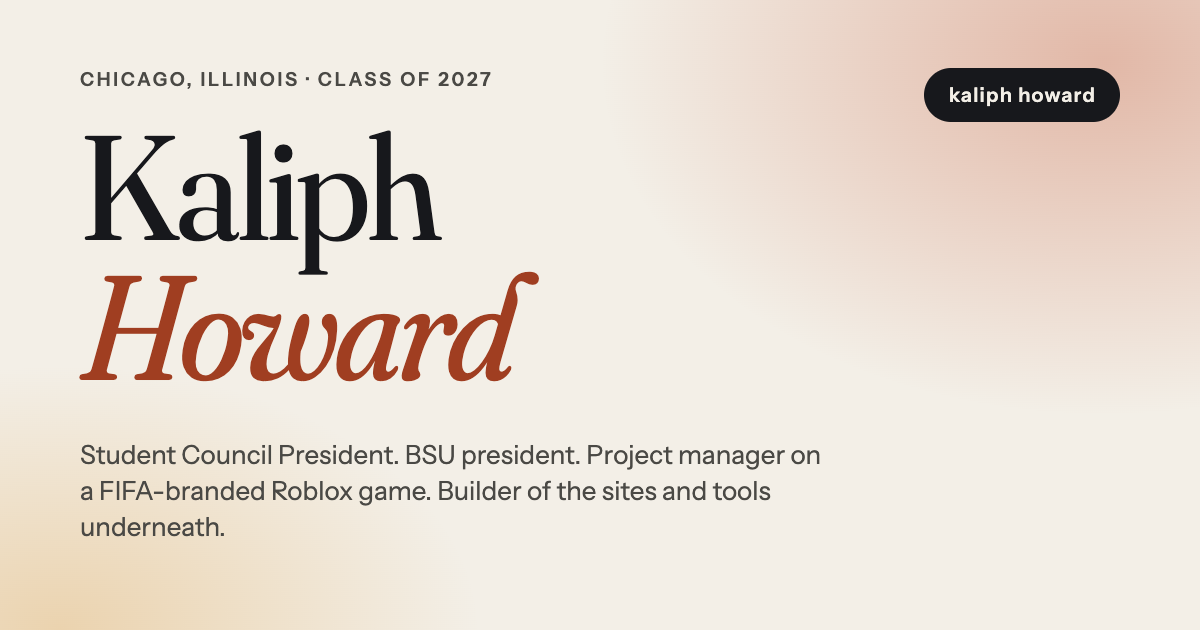
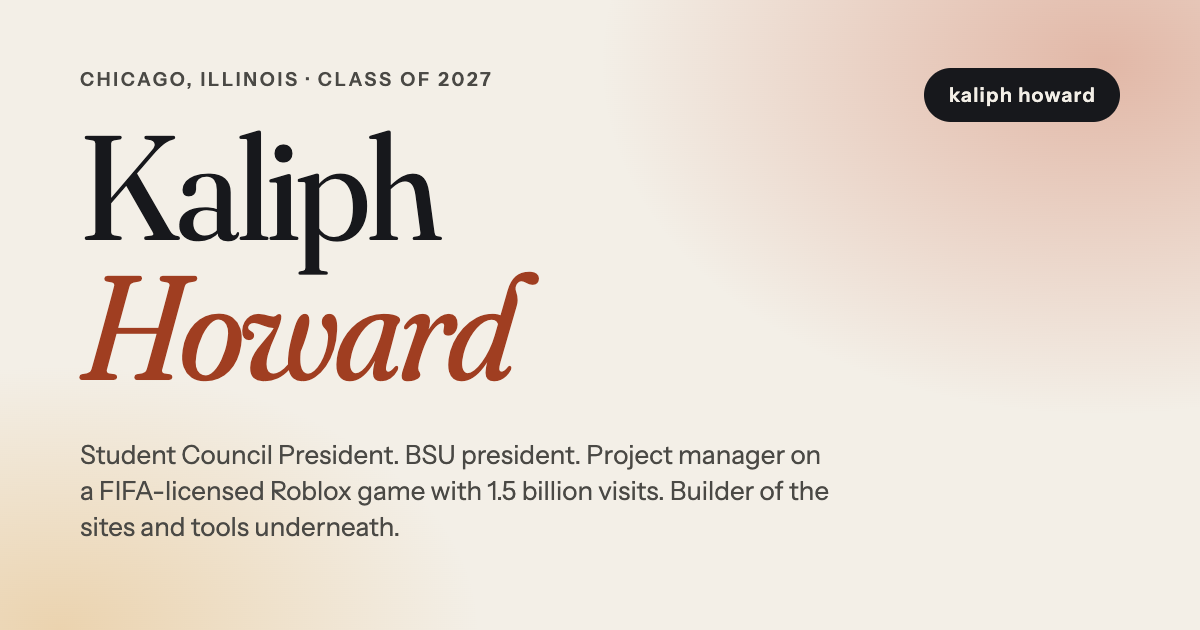
Add verified Playverse evidence, Juneteenth and BSU details
- Playverse: Roblox API figures (1.5B+ visits, 1.9M-member verified group,
  1M+ favourites), launch date, FIFA licensing and rename, twelve Club
  World Cup clubs; Roblox page and studio site screenshots; the X account
  Kaliph grew to 130K followers
- Juneteenth Lake County: organiser, parade and festival details from the
  official site; Kaliph's role as volunteer manager since 2020
- BSU: kickoffs and meetings in rented venues; state representatives and
  senators speaking to students
- FIFA-branded -> FIFA-licensed throughout; OG image regenerated

Changed region(s): [[0.0617, 0.754, 0.7092, 0.8746]]

diff --git a/work.html b/work.html
@@ -8,7 +8,7 @@
   <meta name="theme-color" content="#f3efe7">
   <meta property="og:type" content="website">
   <meta property="og:title" content="Work — Kaliph Howard">
-  <meta property="og:description" content="Student government, a FIFA-branded game, a Black Student Union, a Juneteenth celebration, a brand, and the software under it.">
+  <meta property="og:description" content="Student government, a FIFA-licensed game, a Black Student Union, a Juneteenth celebration, a brand, and the software under it.">
   <meta property="og:image" content="./assets/og.png">
   <meta name="twitter:card" content="summary_large_image">
   <link rel="icon" href="./assets/favicon.svg" type="image/svg+xml">
@@ -77,14 +77,15 @@
         <li class="project project--lead" id="playverse" data-facet="business" data-facets="business leadership community" style="--c:var(--business);--c-ink:var(--business-ink)">
           <button class="project__row" aria-expanded="false" aria-controls="body-playverse">
             <span class="project__num">02</span>
-            <span class="project__title">Playverse / Super League Soccer<small>Project manager on a FIFA-branded Roblox football game with more than 100,000 players and a group of over four million members.</small></span>
+            <span class="project__title">Playverse / Super League Soccer<small>Project manager on FIFA Super Soccer, formerly Super League Soccer: a FIFA-licensed Roblox game with more than 1.5 billion visits.</small></span>
             <span class="project__kind">Business · Leadership</span>
             <span class="project__toggle" aria-hidden="true">+</span>
           </button>
           <div class="project__body" id="body-playverse" hidden>
-            <div class="plate" style="--c:var(--business);--c-ink:var(--business-ink)"><span class="plate__cap">Super League Soccer · Roblox</span><i class="plate--pitch" aria-hidden="true"></i><span class="plate__sub">100,000+ players</span></div>
-            <div><h3>What it is</h3><p>Super League Soccer is a football game on Roblox built by Playverse and carrying FIFA branding. Behind the game is a studio: developers, artists, moderators, social channels and partners.</p></div>
-            <div><h3>My part</h3><p>Project manager, about twelve hours a week. I run the priorities and the calendar, own the brand and social channels, and handle partnerships, including the licensed branding.</p><h3 style="margin-top:1rem">What I took from it</h3><p>A game with six figures of players is a business with a schedule. I learned to run one, and to be accountable to a brand that is not mine.</p></div><p class="project__foot"><a class="glass cta" href="./work/playverse.html">Read the case study <svg viewBox="0 0 16 16" aria-hidden="true"><path d="M3 8h9M8.5 3.5 13 8l-4.5 4.5" fill="none" stroke="currentColor" stroke-width="1.6" stroke-linecap="round" stroke-linejoin="round"/></svg></a><span>Screenshots to be added</span></p>
+            <div class="plate plate--img" style="--c:var(--business);--c-ink:var(--business-ink)"><img src="./assets/work/fifa-super-soccer-roblox.jpg" width="1440" height="900" alt="" loading="lazy"><span class="plate__cap">FIFA Super Soccer · Roblox</span><span class="plate__sub">1.5 billion visits</span></div>
+            <div><h3>What it is</h3><p>Super League Soccer launched on Roblox in January 2023, built by Playverse. It became the most successful sports launch in Roblox history and, after an official licensing partnership with FIFA, was renamed FIFA Super Soccer. As of September 2026 it has more than 1.5 billion visits, over a million favourites, and a verified group of 1.9 million members. For the FIFA Club World Cup 2025 the studio brought twelve licensed clubs into the game.</p></div>
+            <div><h3>My part</h3><p>Project manager, about twelve hours a week. I run the priorities and the calendar, own the brand and social channels, and handle partnerships, including the licensed branding. I grew the studio’s X account, @PlayverseStudio, to 130,000 followers.</p><h3 style="margin-top:1rem">What I took from it</h3><p>A game with a billion visits is a business with a schedule. I learned to run one, and to be accountable to a brand that is not mine.</p></div>
+            <p class="project__foot"><a class="glass cta" href="./work/playverse.html">Read the case study <svg viewBox="0 0 16 16" aria-hidden="true"><path d="M3 8h9M8.5 3.5 13 8l-4.5 4.5" fill="none" stroke="currentColor" stroke-width="1.6" stroke-linecap="round" stroke-linejoin="round"/></svg></a><a href="https://www.roblox.com/games/12177325772/FIFA-Super-Soccer" rel="noopener">The game on Roblox</a></p>
           </div>
         </li>
 
@@ -97,7 +98,7 @@
           </button>
           <div class="project__body" id="body-bsu" hidden>
             <div class="plate" style="--c:var(--community);--c-ink:var(--community-ink)"><span class="plate__cap">Lake County, Illinois</span><span class="plate__word">BSU</span><span class="plate__sub">60+ events</span></div>
-            <div><h3>What it is</h3><p>An independent Black Student Union, organised outside any single school so that students from four districts across Lake County can take part. <span class="tbd" title="Placeholder: Kaliph to describe the BSU">What the events are, meetings, speakers, service and celebrations, and how the union is organised will be described here.</span></p></div>
+            <div><h3>What it is</h3><p>An independent Black Student Union, organised outside any single school so that students from four districts across Lake County can take part. We run kickoffs and large meetings in rented spaces, bowling alleys and restaurants, so students from different schools actually meet, and we bring in state representatives and senators to speak to students about how the state works and what is open to them.</p></div>
             <div><h3>My part</h3><p>President, grades 10 to 12. More than sixty events planned and run.</p><h3 style="margin-top:1rem">What I took from it</h3><p>Sixty events is sixty rooms to fill. I learned that people come back when they were welcomed the first time, and that the second event is the one that decides whether there is a third.</p></div><p class="project__foot"><span>Photographs to be added</span></p>
           </div>
         </li>
@@ -105,14 +106,14 @@
         <li class="project" id="juneteenth" data-facet="community" data-facets="community leadership" style="--c:var(--community);--c-ink:var(--community-ink)">
           <button class="project__row" aria-expanded="false" aria-controls="body-juneteenth">
             <span class="project__num">04</span>
-            <span class="project__title">Lake County Juneteenth</span>
+            <span class="project__title">Juneteenth Lake County</span>
             <span class="project__kind">Community · Leadership</span>
             <span class="project__toggle" aria-hidden="true">+</span>
           </button>
           <div class="project__body" id="body-juneteenth" hidden>
             <div class="plate" style="--c:var(--community);--c-ink:var(--community-ink)"><span class="plate__cap">Lake County, Illinois</span><i class="plate--sun" aria-hidden="true"></i><span class="plate__word">June<br>19</span><span class="plate__sub">Community celebration</span></div>
-            <div><h3>What it is</h3><p>A community Juneteenth celebration in Lake County, organised with local partners. <span class="tbd" title="Placeholder: Kaliph to describe the event">Details of the event, the partners involved and what a day looks like will be added here.</span></p></div>
-            <div><h3>My part</h3><p><span class="tbd" title="Placeholder">Event coordination. A specific description of what I was responsible for will be added here.</span></p></div><p class="project__foot"><span>Case study coming</span></p>
+            <div><h3>What it is</h3><p>Juneteenth Lake County is a parade and festival run by the Greater Waukegan Development Coalition: the parade starts at Waukegan High School and the festival fills Foss Park in North Chicago with music, food, artisans and Black-owned businesses over a weekend.</p></div>
+            <div><h3>My part</h3><p>Volunteer manager since 2020. I coordinate the volunteers on the ground and help vendors get set up and running on festival days.</p></div><p class="project__foot"><a href="https://juneteenthlakecounty.com" rel="noopener">juneteenthlakecounty.com</a><span>Photographs to be added</span></p>
           </div>
         </li>
 
@@ -177,7 +178,7 @@
       <aside class="index__preview enter" style="--i:5" aria-hidden="true">
         <div class="plate-stack">
           <div data-for="student-council" class="plate is-active plate--img" style="--c:var(--leadership);--c-ink:var(--leadership-ink)"><img src="./assets/work/wths-home.jpg" width="1440" height="900" alt="" loading="lazy"><span class="plate__cap">wths2027.com</span><span class="plate__sub">Student Council · Class site</span></div>
-          <div data-for="playverse" class="plate" style="--c:var(--business);--c-ink:var(--business-ink)"><span class="plate__cap">Super League Soccer · Roblox</span><i class="plate--pitch" aria-hidden="true"></i><span class="plate__sub">100,000+ players</span></div>
+          <div data-for="playverse" class="plate plate--img" style="--c:var(--business);--c-ink:var(--business-ink)"><img src="./assets/work/fifa-super-soccer-roblox.jpg" width="1440" height="900" alt="" loading="lazy"><span class="plate__cap">FIFA Super Soccer · Roblox</span><span class="plate__sub">1.5 billion visits</span></div>
           <div data-for="bsu" class="plate" style="--c:var(--community);--c-ink:var(--community-ink)"><span class="plate__cap">Lake County, Illinois</span><span class="plate__word">BSU</span><span class="plate__sub">60+ events</span></div>
           <div data-for="juneteenth" class="plate" style="--c:var(--community);--c-ink:var(--community-ink)"><span class="plate__cap">Lake County, Illinois</span><i class="plate--sun" aria-hidden="true"></i><span class="plate__word">June<br>19</span><span class="plate__sub">Community celebration</span></div>
           <div data-for="avnt" class="plate plate--logo" style="--c:var(--business);--c-ink:var(--business-ink)"><span class="plate__cap">Identity, operations, tools</span><img src="./assets/work/avnt-wordmark.svg" width="1200" height="300" alt="" loading="lazy"><span class="plate__sub">Brand</span></div>

diff --git a/work/playverse.html b/work/playverse.html
@@ -3,12 +3,12 @@
 <head>
   <meta charset="utf-8">
   <meta name="viewport" content="width=device-width, initial-scale=1, viewport-fit=cover">
-  <title>Playverse / Super League Soccer — Kaliph Howard</title>
-  <meta name="description" content="Project manager on Super League Soccer, a FIFA-branded football game on Roblox with over 100,000 players and a group of more than four million members.">
+  <title>Playverse / FIFA Super Soccer — Kaliph Howard</title>
+  <meta name="description" content="Project manager on FIFA Super Soccer (formerly Super League Soccer), a FIFA-licensed Roblox game by Playverse with more than 1.5 billion visits.">
   <meta name="theme-color" content="#f3efe7">
   <meta property="og:type" content="article">
   <meta property="og:title" content="Playverse / Super League Soccer — Kaliph Howard">
-  <meta property="og:description" content="Project manager on Super League Soccer, a FIFA-branded football game on Roblox with over 100,000 players and a group of more than four million members.">
+  <meta property="og:description" content="Project manager on FIFA Super Soccer (formerly Super League Soccer), a FIFA-licensed Roblox game by Playverse with more than 1.5 billion visits.">
   <meta property="og:image" content="../assets/og.png">
   <meta name="twitter:card" content="summary_large_image">
   <link rel="icon" href="../assets/favicon.svg" type="image/svg+xml">
@@ -38,21 +38,22 @@
   <main id="main" class="page case">
     <header class="case__head">
       <p class="eyebrow eyebrow--accent enter" style="--i:0"><a href="../work.html" style="text-decoration:none">Work</a> · Case study</p>
-      <h1 class="display enter" style="--i:1">Project-managing a FIFA-branded game with a six-figure player base.</h1>
-      <p class="lede enter" style="--i:2">Super League Soccer is a football game on Roblox built by Playverse and carrying FIFA branding. I am its project manager: the team, the brand, the social channels and the partners, about twelve hours a week.</p>
+      <h1 class="display enter" style="--i:1">Project-managing a FIFA-licensed game with 1.5 billion visits.</h1>
+      <p class="lede enter" style="--i:2">Super League Soccer launched on Roblox in January 2023 and became FIFA Super Soccer after an official licensing partnership with FIFA. I am its project manager: the team, the calendar, the brand, the social channels and the partners, about twelve hours a week.</p>
     </header>
     <dl class="case__meta enter" style="--i:3">
       <div><dt>Role</dt><dd>Project manager · brand · social · partnerships</dd></div>
-      <div><dt>Scale</dt><dd>100,000+ players · 4,000,000+ group members</dd></div>
+      <div><dt>Scale</dt><dd>1.5 billion+ visits · 1.9 million group members · 1 million+ favourites</dd></div>
       <div><dt>Time</dt><dd>About 12 hours a week</dd></div>
-      <div><dt>Areas</dt><dd>Business · Leadership · Community</dd></div>
+      <div><dt>Live</dt><dd><a href="https://www.roblox.com/games/12177325772/FIFA-Super-Soccer" rel="noopener">FIFA Super Soccer on Roblox</a> · <a href="https://playverse.games" rel="noopener">playverse.games</a></dd></div>
     </dl>
+    <figure class="case__hero enter" style="--i:4"><img src="../assets/work/fifa-super-soccer-roblox.jpg" width="1440" height="900" alt="The FIFA Super Soccer page on Roblox: the game artwork with the FIFA World Cup 2026 mark, published by the verified Play! Football group, with over 450,000 likes." loading="eager"><figcaption>FIFA Super Soccer on Roblox, September 2026</figcaption></figure>
     <div class="case__body">
-      <section class="enter" style="--i:5" aria-labelledby="s0"><h2 id="s0">The job</h2><div class="prose"><p>A game at this scale is a business with a schedule. Developers, artists and moderators need to know what ships when. Players need to hear about it in the right order. Partners need answers. My job is to hold all of that together.</p><p>I run the priorities and the calendar, keep the brand consistent across the game and its channels, and handle the relationships with partners, including the FIFA branding the game carries.</p></div></section>
-      <section class="enter" style="--i:6" aria-labelledby="s1"><h2 id="s1">What that involves</h2><ul class="prose"><li>Coordinating a distributed team across time zones: what is being built, who is blocked, and what gets cut when a date slips.</li><li>Owning the brand and social presence, so what the community sees is consistent and on time.</li><li>Managing partnerships and licensed branding, where the standard for getting things right is set by someone else.</li><li>Community: a group of more than four million people is a public space, and moderation, rules and tone are management decisions.</li></ul></section>
-      <section class="enter" style="--i:7" aria-labelledby="s2"><h2 id="s2">What I learned</h2><div class="prose"><p>Players join for the game and stay for each other. Most of the job is making the community somewhere worth staying: clear rules, a consistent presence, and people who feel seen.</p><p>I also learned what it means to be accountable to a brand that is not mine. That discipline is why I plan to study business and management.</p></div></section>
-      <section class="enter" style="--i:8" aria-labelledby="s3"><h2 id="s3">Evidence</h2><div class="prose"><p><span class="tbd" title="Placeholder: Kaliph to supply images and links">Screenshots of the game, the group and the social channels will be added here, along with a link to the experience.</span></p></div></section>
-      <section class="enter" style="--i:9" aria-labelledby="sshots"><h2 id="sshots">Screens</h2><div class="shots"><div class="placeholder-fig">Game and community screenshots to be added</div></div></section>
+      <section class="enter" style="--i:5" aria-labelledby="s0"><h2 id="s0">The game</h2><div class="prose"><p>A 4v4 football game played in a packed stadium: be the goalkeeper, run the midfield, or score the bicycle kick. It was the most successful sports launch in Roblox history, with a peak of 40,000 live players, and it has kept growing since.</p><p>The numbers are public. As of September 2026 the experience has more than 1.5 billion visits, over a million favourites and a verified publishing group, Play! Football, with 1.9 million members. For the FIFA Club World Cup 2025 the studio brought twelve licensed clubs, including Manchester City and Borussia Dortmund, into the game.</p></div></section>
+      <section class="enter" style="--i:6" aria-labelledby="s1"><h2 id="s1">The job</h2><div class="prose"><p>A game at this scale is a business with a schedule. Developers, artists and moderators need to know what ships when. Players need to hear about it in the right order. FIFA and the clubs need what they were promised. My job is to hold all of that together.</p><p>I run the priorities and the calendar, keep the brand consistent across the game and its channels, and handle the relationships with partners, including the licensed branding the game carries.</p></div></section>
+      <section class="enter" style="--i:7" aria-labelledby="s2"><h2 id="s2">What that involves</h2><ul class="prose"><li>Coordinating a distributed team across time zones: what is being built, who is blocked, and what gets cut when a date slips.</li><li>Owning the brand and social presence. I grew the studio’s X account, @PlayverseStudio, to 130,000 followers.</li><li>Managing partnerships and licensed branding, where the standard for getting things right is set by someone else.</li><li>Community: a group of nearly two million people is a public space, and moderation, rules and tone are management decisions.</li></ul></section>
+      <section class="enter" style="--i:8" aria-labelledby="s3"><h2 id="s3">What I learned</h2><div class="prose"><p>Players join for the game and stay for each other. Most of the job is making the community somewhere worth staying: clear rules, a consistent presence, and people who feel seen.</p><p>I also learned what it means to be accountable to a brand that is not mine. That discipline is why I plan to study business and management.</p></div></section>
+      <section class="enter" style="--i:9" aria-labelledby="sshots"><h2 id="sshots">Screens</h2><div class="shots"><figure><img src="../assets/work/playverse-site.jpg" width="1440" height="900" alt="The Playverse studio website: the headline Bridging to the metaverse above a stadium scene from the game." loading="lazy"><figcaption>playverse.games</figcaption></figure><div class="placeholder-fig">In-game and social screenshots to be added</div></div></section>
     </div>
     <nav class="case__nav" aria-label="More work"><a class="glass cta" href="wths.html">Previous: Student Council <svg viewBox="0 0 16 16" aria-hidden="true"><path d="M3 8h9M8.5 3.5 13 8l-4.5 4.5" fill="none" stroke="currentColor" stroke-width="1.6" stroke-linecap="round" stroke-linejoin="round"/></svg></a><a class="glass cta" href="avnt.html">Next: AVNT <svg viewBox="0 0 16 16" aria-hidden="true"><path d="M3 8h9M8.5 3.5 13 8l-4.5 4.5" fill="none" stroke="currentColor" stroke-width="1.6" stroke-linecap="round" stroke-linejoin="round"/></svg></a><a class="glass cta" href="../work.html">All work <svg viewBox="0 0 16 16" aria-hidden="true"><path d="M3 8h9M8.5 3.5 13 8l-4.5 4.5" fill="none" stroke="currentColor" stroke-width="1.6" stroke-linecap="round" stroke-linejoin="round"/></svg></a></nav>
   </main>

diff --git a/about.html b/about.html
@@ -40,7 +40,7 @@
       <header class="about__head">
           <p class="eyebrow eyebrow--accent enter" style="--i:0">About</p>
           <h1 class="display about__title enter" style="--i:1">Kaliph Howard</h1>
-          <p class="lede enter" style="--i:2">Student Council President for four years. President of an independent Black Student Union. Project manager on a FIFA-branded Roblox game. I build the websites and tools underneath the things I lead, and I plan to study business and management.</p>
+          <p class="lede enter" style="--i:2">Student Council President for four years. President of an independent Black Student Union. Project manager on a FIFA-licensed Roblox game. I build the websites and tools underneath the things I lead, and I plan to study business and management.</p>
         </header>
 
       <!-- Left: portrait and facts. Sticky on desktop, inline on mobile. -->
@@ -66,7 +66,7 @@
           <h2 id="h-who">Who I am</h2>
           <div class="prose">
             <p>I’m a senior at Warren Township High School, Class of 2027, from Chicago. I have been Student Council President since freshman year, which means that for four years I have been the person the class turns to when something needs to happen.</p>
-            <p>Outside school I am president of an independent Black Student Union that draws students from four Lake County districts, and I project-manage Super League Soccer, a FIFA-branded football game on Roblox with more than 100,000 players. I founded a brand, AVNT, and built the software that runs it. When my class needed a website for senior year, I built that too.</p>
+            <p>Outside school I am president of an independent Black Student Union that draws students from four Lake County districts, and I project-manage FIFA Super Soccer, the FIFA-licensed Roblox football game that began as Super League Soccer and has passed 1.5 billion visits. I have been a volunteer manager for Juneteenth Lake County since 2020. I founded a brand, AVNT, and built the software that runs it. When my class needed a website for senior year, I built that too.</p>
             <p>I don’t think of these as separate hobbies. They are the same instinct pointed at different rooms: when something is missing, I make it, and then I make sure it keeps running.</p>
           </div>
         </section>
@@ -85,7 +85,7 @@
           <h2 id="h-map">How the parts connect</h2>
           <ul class="map">
             <li data-facet="leadership" tabindex="0" style="--c:var(--leadership);--c-ink:var(--leadership-ink)"><b>Leadership</b><span>Student council, four years. BSU president, three.</span></li>
-            <li data-facet="community" tabindex="0" style="--c:var(--community);--c-ink:var(--community-ink)"><b>Community</b><span>Sixty-plus events, a Juneteenth celebration, a four-million-member group.</span></li>
+            <li data-facet="community" tabindex="0" style="--c:var(--community);--c-ink:var(--community-ink)"><b>Community</b><span>Sixty-plus BSU events, Juneteenth Lake County since 2020, a 1.9-million-member group.</span></li>
             <li data-facet="business" tabindex="0" style="--c:var(--business);--c-ink:var(--business-ink)"><b>Business</b><span>A licensed game with a schedule, and a brand with its own operations.</span></li>
             <li data-facet="technology" tabindex="0" style="--c:var(--technology);--c-ink:var(--technology-ink)"><b>Technology</b><span>The class site, the ops dashboard, a private encrypted app.</span></li>
             <li data-facet="design" tabindex="0" style="--c:var(--design);--c-ink:var(--design-ink)"><b>Design</b><span>Identity, layout, and print that has to survive a hoodie.</span></li>
@@ -108,7 +108,7 @@
         <section class="enter" style="--i:7" aria-labelledby="h-beyond">
           <h2 id="h-beyond">Beyond school</h2>
           <div class="prose">
-            <p>The Black Student Union I lead is independent, which is the point: it exists so students from four districts can find each other without waiting for a school to organise it. <span class="tbd" title="Placeholder: Kaliph to describe this involvement in a sentence">I am also involved with Black Abolition Movement For The Mind.</span></p>
+            <p>The Black Student Union I lead is independent, which is the point: it exists so students from four districts can find each other without waiting for a school to organise it. We rent out bowling alleys and restaurants for kickoffs and big meetings, and we have had state representatives and senators come to speak to students. <span class="tbd" title="Placeholder: Kaliph to describe this involvement in a sentence">I am also involved with Black Abolition Movement For The Mind.</span></p>
             <p><span class="tbd" title="Kaliph to confirm wording; keep it light">I also carry real responsibilities at home. That is part of why I care so much about building things that keep running without me.</span></p>
           </div>
         </section>

diff --git a/index.html b/index.html
@@ -8,7 +8,7 @@
   <meta name="theme-color" content="#f3efe7">
   <meta property="og:type" content="website">
   <meta property="og:title" content="Kaliph Howard — Chicago, Class of 2027">
-  <meta property="og:description" content="Student Council President, BSU president, and project manager on a FIFA-branded Roblox game. Chicago, Class of 2027.">
+  <meta property="og:description" content="Student Council President, BSU president, and project manager on a FIFA-licensed Roblox game. Chicago, Class of 2027.">
   <meta property="og:image" content="./assets/og.png">
   <meta name="twitter:card" content="summary_large_image">
   <link rel="icon" href="./assets/favicon.svg" type="image/svg+xml">
@@ -50,7 +50,7 @@
       <!-- CONTENT: introduction. Keep it to three or four lines. -->
       <p class="lede hero__lede enter" style="--i:2">
         Four years as <strong>Student Council President</strong>. President of an independent <strong>Black Student Union</strong>.
-        Project manager on a <strong>FIFA-branded Roblox football game</strong> with more than 100,000 players.
+        Project manager on <strong>FIFA Super Soccer</strong>, a FIFA-licensed Roblox game with more than 1.5 billion visits.
         And the person who built the websites and tools underneath all of it.
       </p>
 
@@ -91,14 +91,14 @@
         <div class="facet-panel" role="tabpanel" id="panel-business" aria-labelledby="tab-business" hidden>
           <div>
             <h2 class="serif">Running things that have to keep running.</h2>
-            <p>I project-manage Super League Soccer, a FIFA-branded football game on Roblox with over 100,000 players and a group of more than four million members, about twelve hours a week. I founded AVNT and built the systems that run it. I plan to study business and management.</p>
+            <p>I project-manage FIFA Super Soccer, the FIFA-licensed Roblox football game that began as Super League Soccer: more than 1.5 billion visits, a group of 1.9 million members, and a studio X account I grew to 130,000 followers. About twelve hours a week. I founded AVNT and built the systems that run it. I plan to study business and management.</p>
           </div>
           <a class="glass cta facet-panel__link" href="./work.html#business">See the business work <svg viewBox="0 0 16 16" aria-hidden="true"><path d="M3 8h9M8.5 3.5 13 8l-4.5 4.5" fill="none" stroke="currentColor" stroke-width="1.6" stroke-linecap="round" stroke-linejoin="round"/></svg></a>
         </div>
         <div class="facet-panel" role="tabpanel" id="panel-community" aria-labelledby="tab-community" hidden>
           <div>
             <h2 class="serif">Making room for people to belong.</h2>
-            <p>Sixty-plus events as BSU president, drawing students from four Lake County districts. A Juneteenth celebration for Lake County. An online community that stays for the people, not the game. The tools change. The job of making people feel welcome does not.</p>
+            <p>Sixty-plus events as BSU president, from kickoffs at rented bowling alleys to meetings where state representatives and senators came to speak to students. Volunteer manager for Juneteenth Lake County since 2020. The tools change. The job of making people feel welcome does not.</p>
           </div>
           <a class="glass cta facet-panel__link" href="./work.html#community">See the community work <svg viewBox="0 0 16 16" aria-hidden="true"><path d="M3 8h9M8.5 3.5 13 8l-4.5 4.5" fill="none" stroke="currentColor" stroke-width="1.6" stroke-linecap="round" stroke-linejoin="round"/></svg></a>
         </div>
@@ -135,7 +135,7 @@
       <a class="route" href="./work.html">
         <span class="eyebrow">Work</span>
         <h2 class="display">What I’ve built</h2>
-        <p>Eight entries: student government, a FIFA-branded game with a six-figure player base, a Black Student Union, a Juneteenth celebration, a brand, and the software under all of it.</p>
+        <p>Eight entries: student government, a FIFA-licensed game with 1.5 billion visits, a Black Student Union, Juneteenth Lake County, a brand, and the software under all of it.</p>
         <span class="route__go">Open the index <svg viewBox="0 0 16 16" aria-hidden="true"><path d="M3 8h9M8.5 3.5 13 8l-4.5 4.5" fill="none" stroke="currentColor" stroke-width="1.6" stroke-linecap="round" stroke-linejoin="round"/></svg></span>
         <span class="route__mark" aria-hidden="true">08</span>
       </a>

diff --git a/css/site.css b/css/site.css
@@ -612,7 +612,7 @@ ul, ol { margin: 0; padding: 0; }
 
 /* ---------- 14. Image plates, case studies, 404 ------------------------- */
 .plate--img { background: var(--paper-deep); }
-.plate--img img { position: absolute; inset: 0; width: 100%; height: 100%; object-fit: cover; object-position: top; }
+.plate--img img { position: absolute; inset: 0; width: 100%; height: 100%; object-fit: cover; object-position: 50% 18%; }
 .plate--img .plate__sub, .plate--img .plate__cap { color: #fff; text-shadow: 0 1px 8px rgb(0 0 0 / 0.5); z-index: 1; }
 .plate--img::after { content: ""; position: absolute; inset: 0; background: linear-gradient(180deg, rgb(0 0 0 / 0.28), transparent 30%, transparent 70%, rgb(0 0 0 / 0.4)); }
 .plate--logo img { width: 62%; height: auto; }

diff --git a/docs/DESIGN.md b/docs/DESIGN.md
@@ -53,16 +53,18 @@ The `-ink` variants are used for any text; the base hues wash backgrounds only.
 - Portrait (Home, About): `assets/portrait-placeholder.svg`.
 - Contact email: `contact.html`, both the `href` and the visible label.
 - Contact: a one-page activities PDF, and links to other profiles.
-- Playverse: screenshots of the game, the group and the social channels, and a link to the experience (`work/playverse.html`, `work.html`).
-- Black Student Union: what the events are and how the union is organised; photographs.
-- Lake County Juneteenth: description, Kaliph's role, what he learned.
+- Playverse: in-game and social screenshots (`work/playverse.html`). The Roblox page and studio site are captured.
+- Black Student Union: photographs, and the union's name.
+- Juneteenth Lake County: photographs.
 - School design work: confirm the planner cover; add other pieces and images.
 - AVNT: live links once the public site is deployed.
 - `og:image` is a relative path until a domain exists; make it absolute then.
 
 ## Statements supplied by Kaliph on 2 September 2026 (now on the site)
 
-Student Council President, grades 9–12. BSU President, grades 10–12, 60+ events, students from four Lake County districts. Project manager on Playverse's Super League Soccer, a FIFA-branded Roblox game, about 12 hours a week, 100,000+ players, 4,000,000+ group members. AP Computer Science Principles and AP English Language and Composition (current). Honors English II (grade 9). ASU Universal Learner ENG 101 (dates to be confirmed with ASU). Intends to study business and management, then an MBA or Master of Accounting.
+Student Council President, grades 9–12. BSU President, grades 10–12, 60+ events, students from four Lake County districts. Project manager on Playverse's Super League Soccer, a FIFA-licensed Roblox game, about 12 hours a week, 100,000+ players, 4,000,000+ group members. AP Computer Science Principles and AP English Language and Composition (current). Honors English II (grade 9). ASU Universal Learner ENG 101 (dates to be confirmed with ASU). Intends to study business and management, then an MBA or Master of Accounting. Volunteer manager for Juneteenth Lake County since 2020, coordinating volunteers and helping vendors set up. BSU kickoffs and large meetings in rented bowling alleys and restaurants; state representatives and senators have spoken to students. Grew @PlayverseStudio on X to 130,000 followers.
+
+Verified from public sources on 2 September 2026: Roblox API reports FIFA Super Soccer (place 12177325772, created 2023-01-16, formerly Super League Soccer) at 1,517,392,196 visits, 1,060,632 favourites, publisher group Play! Football (verified) with 1,916,683 members. playverse.games states 40,000 peak live players and twelve clubs in the FIFA Club World Cup 2025 experience. @PlayverseStudio shows about 171,600 followers today. juneteenthlakecounty.com: run by the Greater Waukegan Development Coalition, parade from Waukegan High School, festival at Foss Park, North Chicago.
 
 ## Still marked `.tbd` for Kaliph to confirm
 
@@ -72,7 +74,6 @@ Student Council President, grades 9–12. BSU President, grades 10–12, 60+ eve
 - The family-responsibilities line on About, and its wording.
 - ASU ENG 101 term dates.
 - The colophon's description of how the site was built.
-- Juneteenth role and details.
 
 Deliberately left off the site: GPA and ACT scores. Those belong on the application itself; the site's job is to show the work behind them.
 
